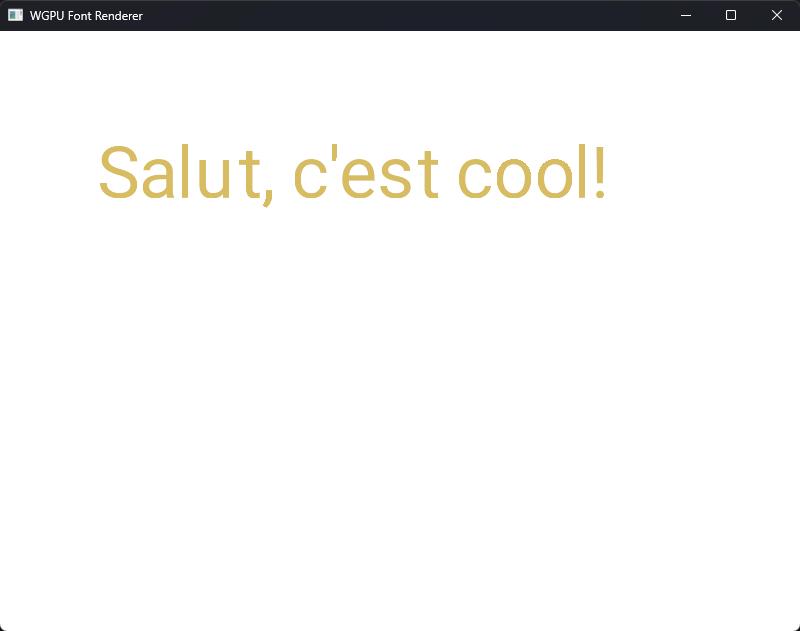
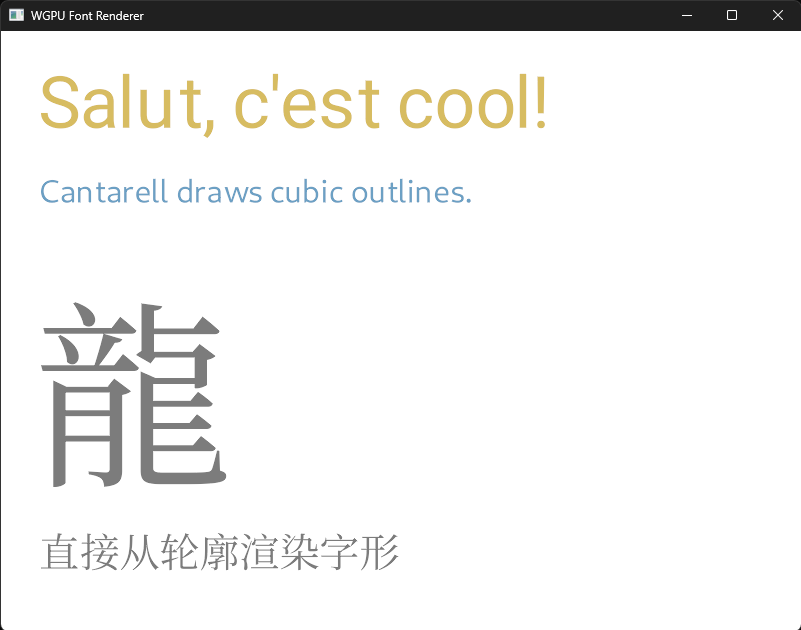
Replace the screenshot with the three-font example

diff --git a/README.md b/README.md
@@ -5,7 +5,7 @@
 
 GPU-centered font rendering for [wgpu](https://wgpu.rs/). Glyphs are drawn straight from their outlines in the fragment shader. No signed distance field cache of any sort.
 
-![Text rendered by the example](examples/screenshot.png)
+![The simple example drawing Roboto, Cantarell and Noto Serif SC, with a large 龍 above a line of Chinese text](examples/screenshot.png)
 
 ## Features
 
